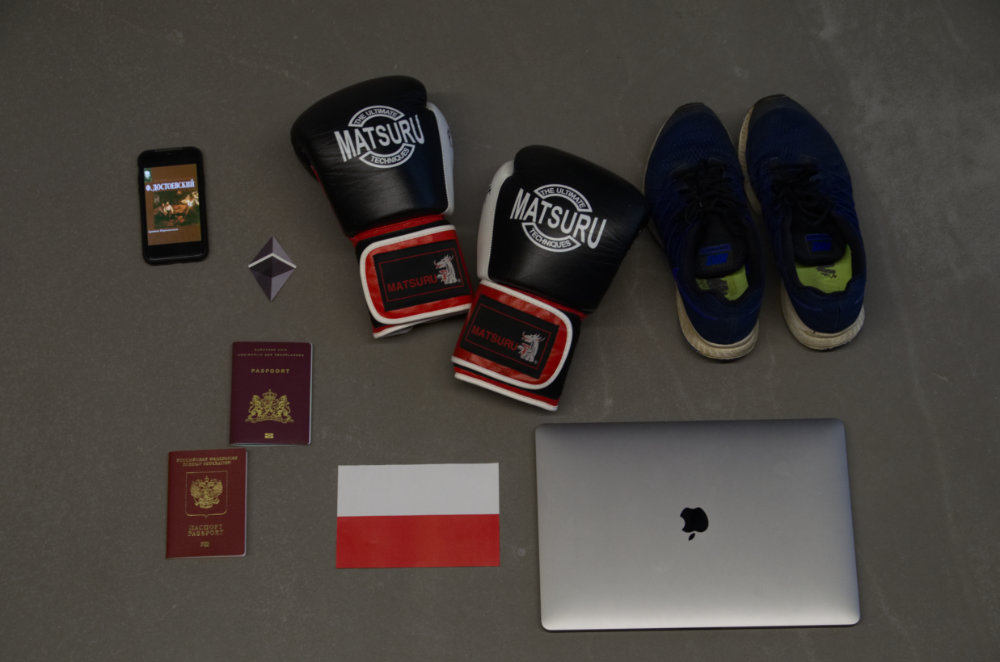
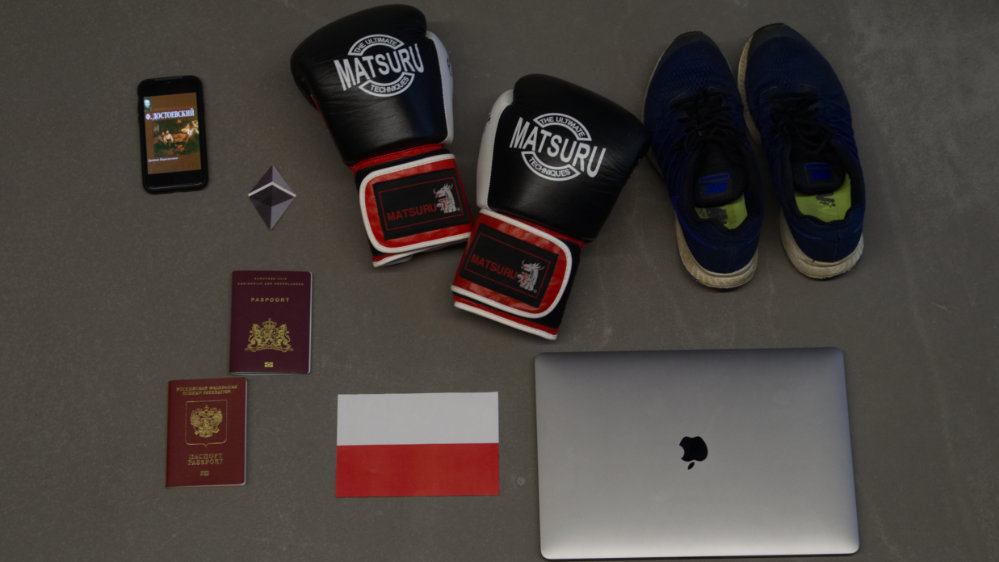
Added Arie, fix on phote sizes

diff --git a/_team/arie_twigt.md b/_team/arie_twigt.md
@@ -1,0 +1,14 @@
+---
+name: Arie Twigt
+mugshot: arie_overview.jpg
+---
+* **Knijphalters**:	De knijphalter is slechts een van de “sportapparaten” die ik in mijn garage heb staan. Sinds mijn 16e doe ik al aan krachtsport en experimenteer ik met verschillende trainingen om fit te blijven.
+* **Partum**:	Je moet natuurlijk altijd goed ruiken. Voor een man heb ik erg veel verschillende parfums, misschien wel meer dan 50. De Armani op deze foto heb ik altijd bij me in het middenconsole van mijn auto.
+* **Lego waterfles**:	Ik ben dol op Denemarken, Lego en ik drink veel water. Vandaar deze ideale combi.
+* **Wandelen**:	Ik woon in het mooie Enschede in Twente. Regelmatig maak ik lange wandelingen door het bos en moet je daarom goed voorbereid zijn. Een flessenopener voor een lekker biertje heeft daarom topprioriteit.
+* **Sushi**:	Er is geen voedsel waar ik meer van gefascineerd ben dan sushi. Gelukkig mijn vrouw ook! We eten het daarom ook meerdere keren per maand. Vroeger maakte wij het regelmatig zelf, maar die tijd spenderen we nu liever in het eten van sushi.
+* **iPhone X e-books**:	Ieder jaar neem ik me voor om minimaal 25 boeken te lezen. Het helpt als je die dan altijd bij je hebt. Op station, in bed of tijdens een saaie meeting pak ik dan ook te kans om een interessant boek te lezen.
+* **iPhone X foto’s**:	Posten op Social Media zit nog steeds in me, ook al ben ik geen 16 meer. Het is leuk om van een object of landschap mooi vast te leggen en er eventueel nog bewerkingen op toe te passen. Noem me gerust een spammer op Instagram.
+* **Receptenboekje**:	Regelmatig nodig ik mensen bij mij thuis uit om te eten en dien ik een van mijn favoriete gerechten op. Deze zijn natuurlijk veilig opgeborgen in mijn receptenboekje. Hier staan recepten in van mijn moeder (Roti), vader (Katwijkse Macaroni) of zelfgemaakte recepten (Tropische Kip Sensatie). 
+* **Autosleutels**:	Rijden vind ik heerlijk en wij zijn een fan van Volvo. Gewoon de auto pakken en rijden, soms in Duitsland, is lekker om soms over dingen na te denken of als je er met programmeren niet uit komt. Ik kan het iedereen aanraden.
+* **Laptop**:	Achter mijn laptop voel ik me misschien wel het meest thuis. De afgelopen jaren heb ik verschillende applicaties ontwikkeld, artikelen geschreven of films gekeken. Ik gebruik als 13 jaar een macbook en wil daarna ook niets anders meer. Voor een kijkje in wat ik allemaal gemaakt heb kun je naar mijn website gaan: [https://arietwigt.nl]() 
